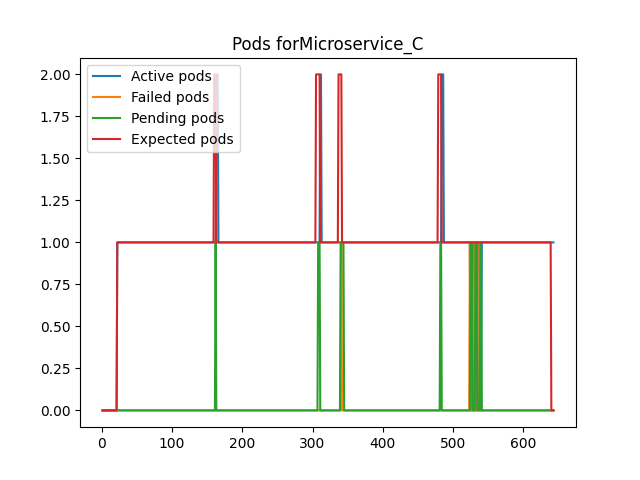
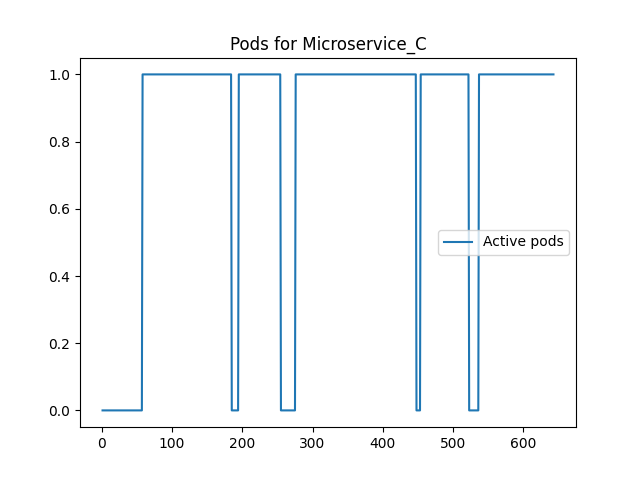
Functionality for scaling without request

diff --git a/runSimulation.py b/runSimulation.py
@@ -112,7 +112,7 @@ for command in commands:
 	if cmdAttributes[0] == 'Sleep':
 		count+=1
 		time.sleep(int(cmdAttributes[1]))
-	
+
 	for graphedNode in nodeGraphing:
 		for node in apiServer.etcd.nodeList:
 			if node.label == graphedNode.label:
@@ -130,10 +130,13 @@ for command in commands:
 					graphedMS = next(graphingMS for graphingMS in graphedDep.microservices if graphingMS.label == ms)
 					graphedMS.expectedList.append(curMS.expectedReplicas)
 					pendingPods = list(filter(lambda x: x.microserviceLabel == ms, apiServer.etcd.pendingPodList))
-					activePods = len(apiServer.GetEndPointsByMSLabel(ms))
+					mss = apiServer.GetMsByMsLabel(ms)
+					#activePods = mss.currentReplicas
+					#activePods = len(apiServer.GetEndPointsByMSLabel(ms))
+					graphedMS.activeList.append(mss.currentReplicas)
 					failedPods = list(filter(lambda x: x.microserviceLabel == ms, filter(lambda x: x.status == "FAILED", apiServer.etcd.runningPodList)))
 					graphedMS.pendingList.append(len(pendingPods))
-					graphedMS.activeList.append((activePods))
+					#graphedMS.activeList.append((activeList))
 					graphedMS.crashedList.append(len(failedPods))
 	curStep+=1
 	steps.append(curStep)
@@ -141,6 +144,7 @@ time.sleep(30)
 print("Shutting down threads")
 
 #assert sum([1, 2, 3]) == 5, "Should be 6"
+
 
 depController.running = False
 scheduler.running = False
@@ -170,12 +174,14 @@ for dep in deploymentGraphing:
 	
 	for ms in dep.microservices:
 		plt.plot(steps, ms.activeList, label = "Active pods")
-		plt.plot(steps, ms.crashedList, label = "Failed pods")
-		plt.plot(steps, ms.pendingList, label = "Pending pods")
-		plt.plot(steps, ms.expectedList, label = "Expected pods")
+		#plt.plot(steps, ms.crashedList, label = "Failed pods")
+		#plt.plot(steps, ms.pendingList, label = "Pending pods")
+		#plt.plot(steps, ms.expectedList, label = "Expected pods")
 		plt.title("Pods for"+ms.label)
+		plt.title("Pods for " + ms.label)
 		plt.legend()
-		plt.savefig(ms.label+".png")
+		#plt.savefig(ms.label+".png")
+		plt.savefig(ms.label + ".png")
 		plt.show()
 
 		

diff --git a/hpa.py b/hpa.py
@@ -36,6 +36,8 @@ class HPA:
 					#eps = self.apiServer.GetEndPointsByLabel(self.deploymentLabel, ms)
 					eps = self.apiServer.GetEndPoints()
 					pods = []
+					allPods = self.apiServer.GetPending()
+					allDeps = self.apiServer.GetDeployments()
 					for pod in self.apiServer.GetPending():
 							if pod.microserviceLabel == self.microserviceLabel:
 								pods.append(pod)
@@ -50,12 +52,23 @@ class HPA:
 					else:
 						averageUtil = (microservice.cpuCost*len(pods)-availableCPUS)/(microservice.cpuCost*len(pods))
 					newReps = math.ceil(microservice.currentReplicas * averageUtil/self.setPoint)
-					if newReps < self.minReps:
-						microservice.expectedReplicas = self.minReps
-					elif newReps > self.maxReps:
-						microservice.expectedReplicas = self.maxReps
+
+					#for x in range(len(self.apiServer.etcd.requestsList)):
+						#print(self.apiServer.etcd.requestsList[x])
+					#print("End of List")
+
+					if self.microserviceLabel in self.apiServer.etcd.requestsList:
+						if newReps < self.minReps:
+							microservice.expectedReplicas = self.minReps
+						elif newReps > self.maxReps:
+							microservice.expectedReplicas = self.maxReps
+						else:
+							microservice.expectedReplicas = newReps
+
 					else:
-						microservice.expectedReplicas = newReps
+						#print("no request for micro" + self.microserviceLabel)
+						microservice.currentReplicas = 0;
+						microservice.expectedReplicas = 0;
 					
 			time.sleep(self.time)
 		print("HPA Shutdown")

diff --git a/pod.py b/pod.py
@@ -3,6 +3,7 @@ from concurrent.futures import ThreadPoolExecutor
 from request import Request
 import threading
 
+
 #The Pod is the unit of scaling within Kubernetes. It encapsulates the running containerized application
 #name is the name of the Pod. This is the deploymentLabel with the replica number as a suffix. ie "deploymentA1"
 #handlingTime is the duration taken to handle requests.
@@ -15,7 +16,8 @@ import threading
 #the pool is the threads that are available for request handling on the pod
 #reqs are the active or queued requests
 class Pod:
-	def __init__(self, NAME, ASSIGNED_CPU, MSLABEL, HANDLINGTIME):
+	def __init__(self, NAME, ASSIGNED_CPU, MSLABEL, HANDLINGTIME, APIServer):
+		self.apiServer = APIServer
 		self.podName = NAME
 		self.handlingTime = HANDLINGTIME
 		self.assigned_cpu = ASSIGNED_CPU
@@ -26,11 +28,14 @@ class Pod:
 		self.pool = ThreadPoolExecutor(max_workers=ASSIGNED_CPU)
 		self.requests = []
 
-	def HandleRequest(self, REQUEST):
+	def HandleRequest(self, REQUEST, MS):
 		def ThreadHandler():
+			self.apiServer.etcd.requestsList.append(MS)
 			self.available_cpu -=1
 			self.crash.wait(timeout=(REQUEST.fail.wait(timeout=self.handlingTime)))
+			self.apiServer.etcd.requestsList.remove(MS)
 			self.available_cpu +=1
+			#print(f"Request_{REQUEST.label} finish handled" + self.microserviceLabel)
 			if self.crash.isSet():
 				REQUEST.fail.set()
 		if len(self.requests)>(self.assigned_cpu*self.handlingTime):

diff --git a/api_server.py b/api_server.py
@@ -151,9 +151,9 @@ class APIServer:
 
 
 # CreatePod finds the resource allocations associated with a deployment and creates a pod using those metrics
-	def CreatePod(self, microservice):
+	def CreatePod(self, microservice, APISERVER):
 		podName = microservice.microserviceLabel + "_" + str(self.GeneratePodName())
-		pod = Pod(podName, microservice.cpuCost, microservice.microserviceLabel, microservice.handlingTime)
+		pod = Pod(podName, microservice.cpuCost, microservice.microserviceLabel, microservice.handlingTime, APISERVER)
 		#print("Pod " + pod.podName + " created")
 		self.etcd.pendingPodList.append(pod)
 		
@@ -196,5 +196,6 @@ class APIServer:
 			deployment = self.GetDepByLabel(info[1])
 			with deployment.lock:
 				deployment.pendingReqs.append(Request(info))
+				#print(Request(info))
 				deployment.waiting.set()
 		

diff --git a/dep_controller.py b/dep_controller.py
@@ -18,7 +18,7 @@ class DepController:
 			with self.apiServer.etcdLock:
 				for microservice in self.apiServer.etcd.microserviceList:
 					while microservice.currentReplicas < microservice.expectedReplicas:
-						self.apiServer.CreatePod(microservice)
+						self.apiServer.CreatePod(microservice, self.apiServer)
 						microservice.currentReplicas +=1
 					#endPoints = self.apiServer.GetEndPointsByLabel(microservice.deploymentLabel, microservice.microserviceLabel)
 					endPoints = self.apiServer.GetEndPointsByMSLabel(microservice.microserviceLabel)

diff --git a/commonPoolTest.py b/commonPoolTest.py
@@ -1,0 +1,16 @@
+import threading
+from request import Request
+from dep_controller import DepController
+from api_server import APIServer
+from node_controller import NodeController
+from graphInfo import DeploymentGraphInfo, MicroserviceGraphInfo, NodeGraphInfo
+from scheduler import Scheduler
+import matplotlib.pyplot as plt
+from hpa import HPA
+from load_balancer import LoadBalancer
+from load_balancer import LoadBalancer
+from pod import Pod
+import time
+import unittest
+
+

diff --git a/load_balancer.py b/load_balancer.py
@@ -59,7 +59,12 @@ class LoadBalancer:
 			#print('endpoints found for microservice' + MS)
 			endPoints.sort(key=lambda x: x.pod.available_cpu, reverse=True)
 			pod = self.apiServer.GetPod(endPoints[0])
-			pod.HandleRequest(request)
+			pod.HandleRequest(request, MS)
+
+			#for x in range(len(self.apiServer.etcd.requestsList)):
+				#print(self.apiServer.etcd.requestsList[x])
+			#print("End of List")
+
 
 			
 		

diff --git a/etcd.py b/etcd.py
@@ -23,7 +23,7 @@ class Etcd:
 		self.runningPodList= []
 		self.deploymentList = []
 		self.microserviceList = []
-		self.microserviceTemplates = []
+		self.requestsList = []
 		self.nodeList = []
 		self.endPointList = []
 		self.reqCreator = ThreadPoolExecutor(max_workers=1)
